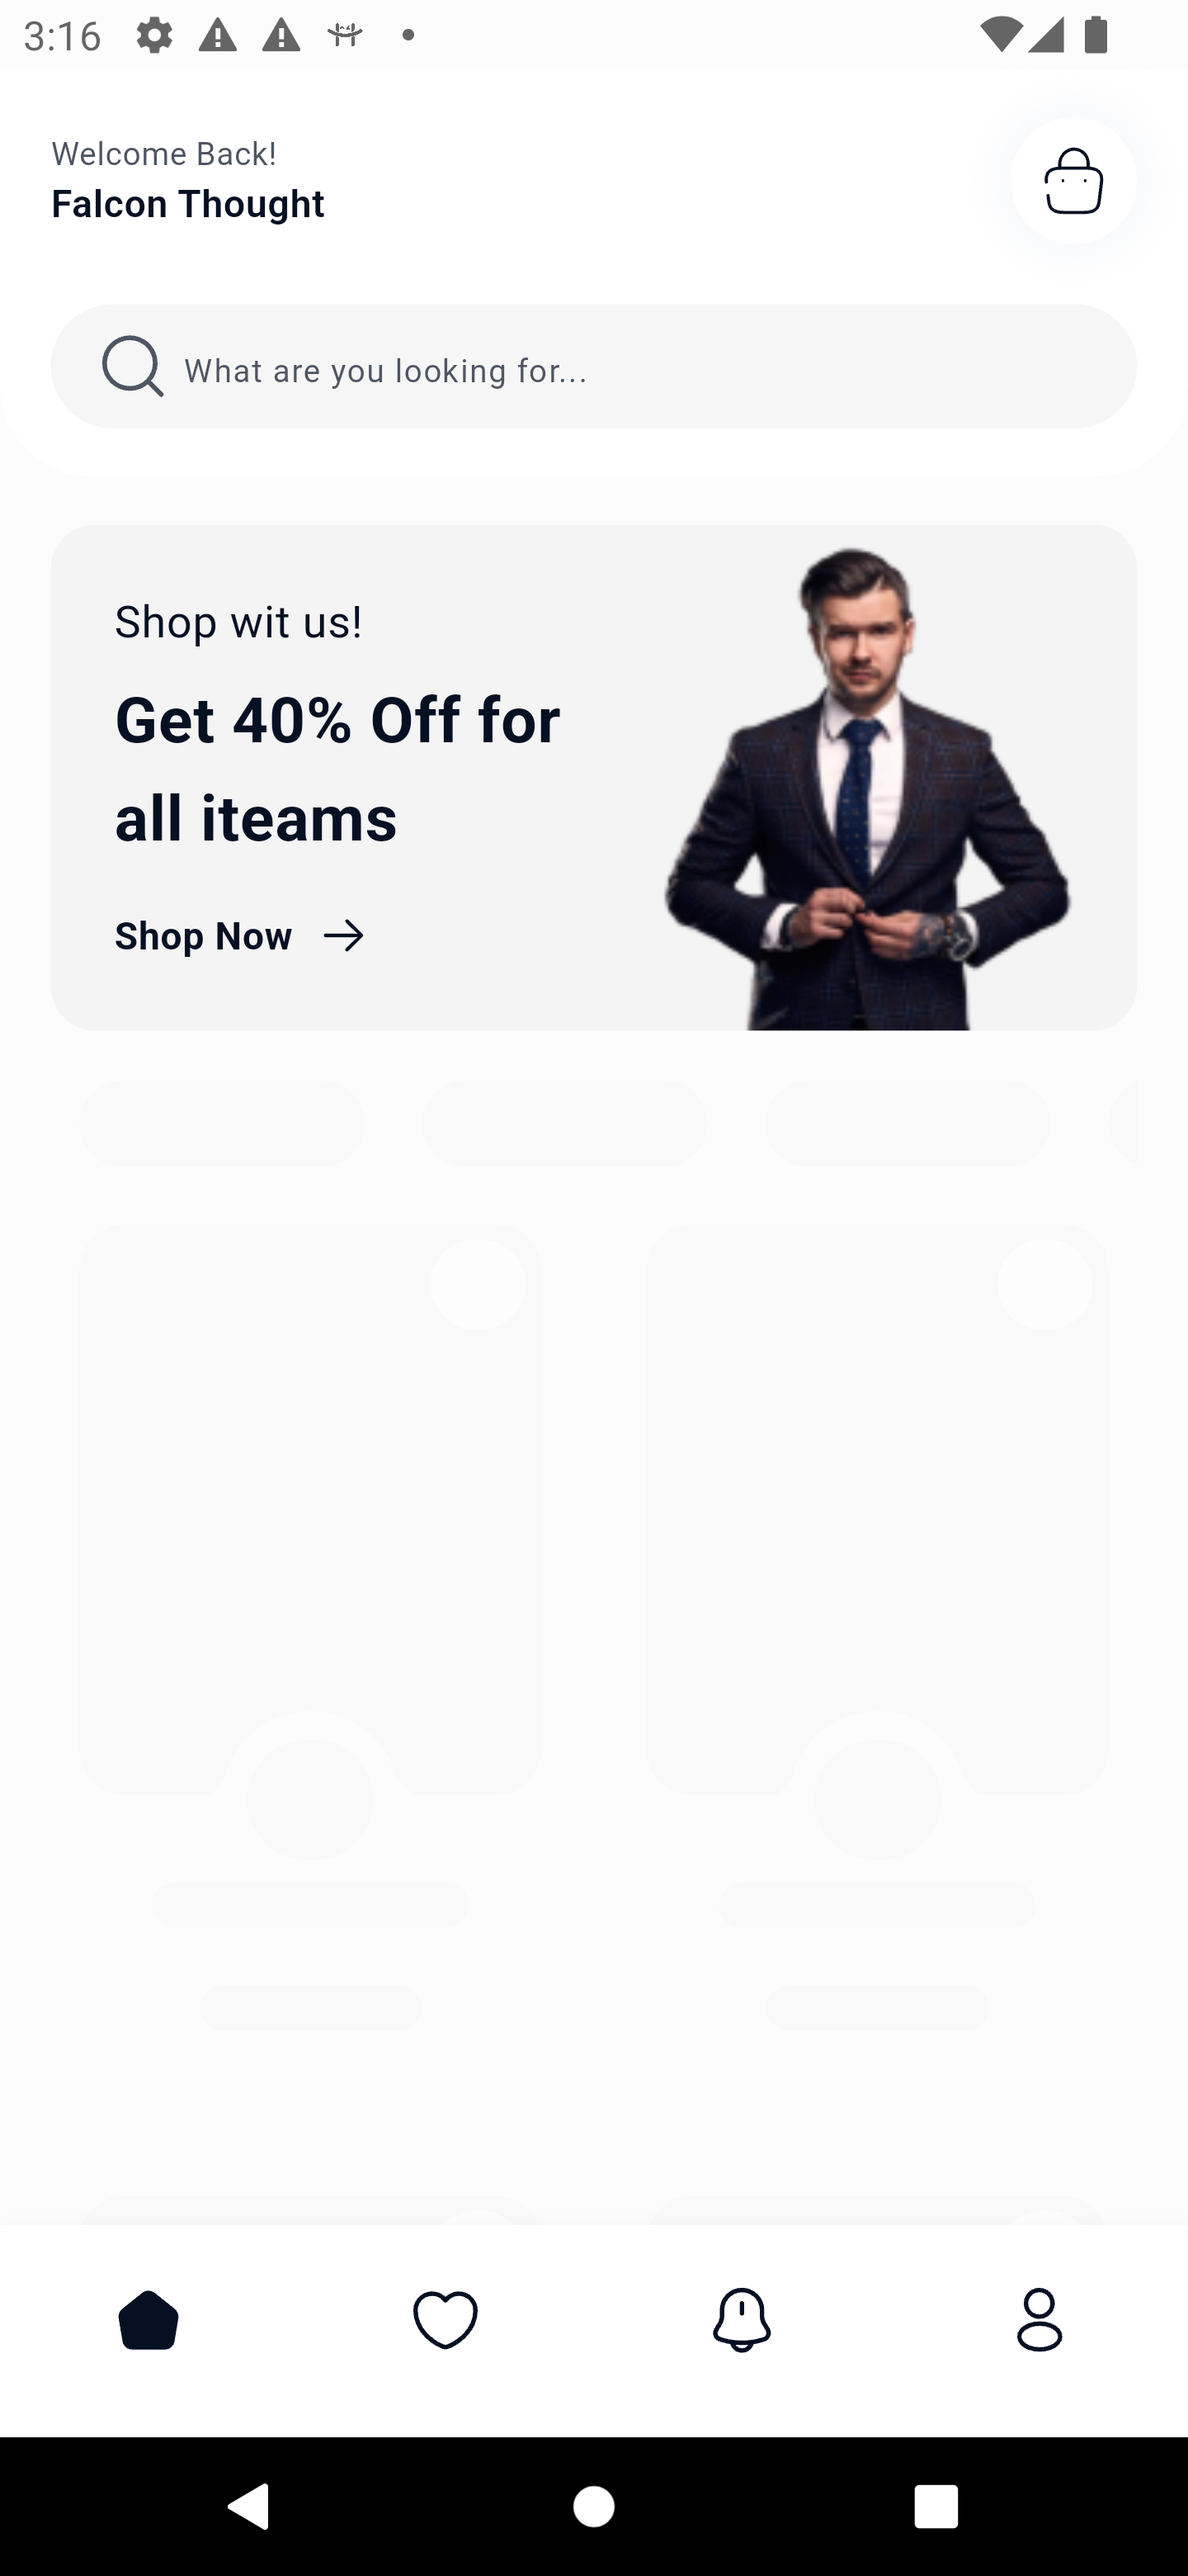
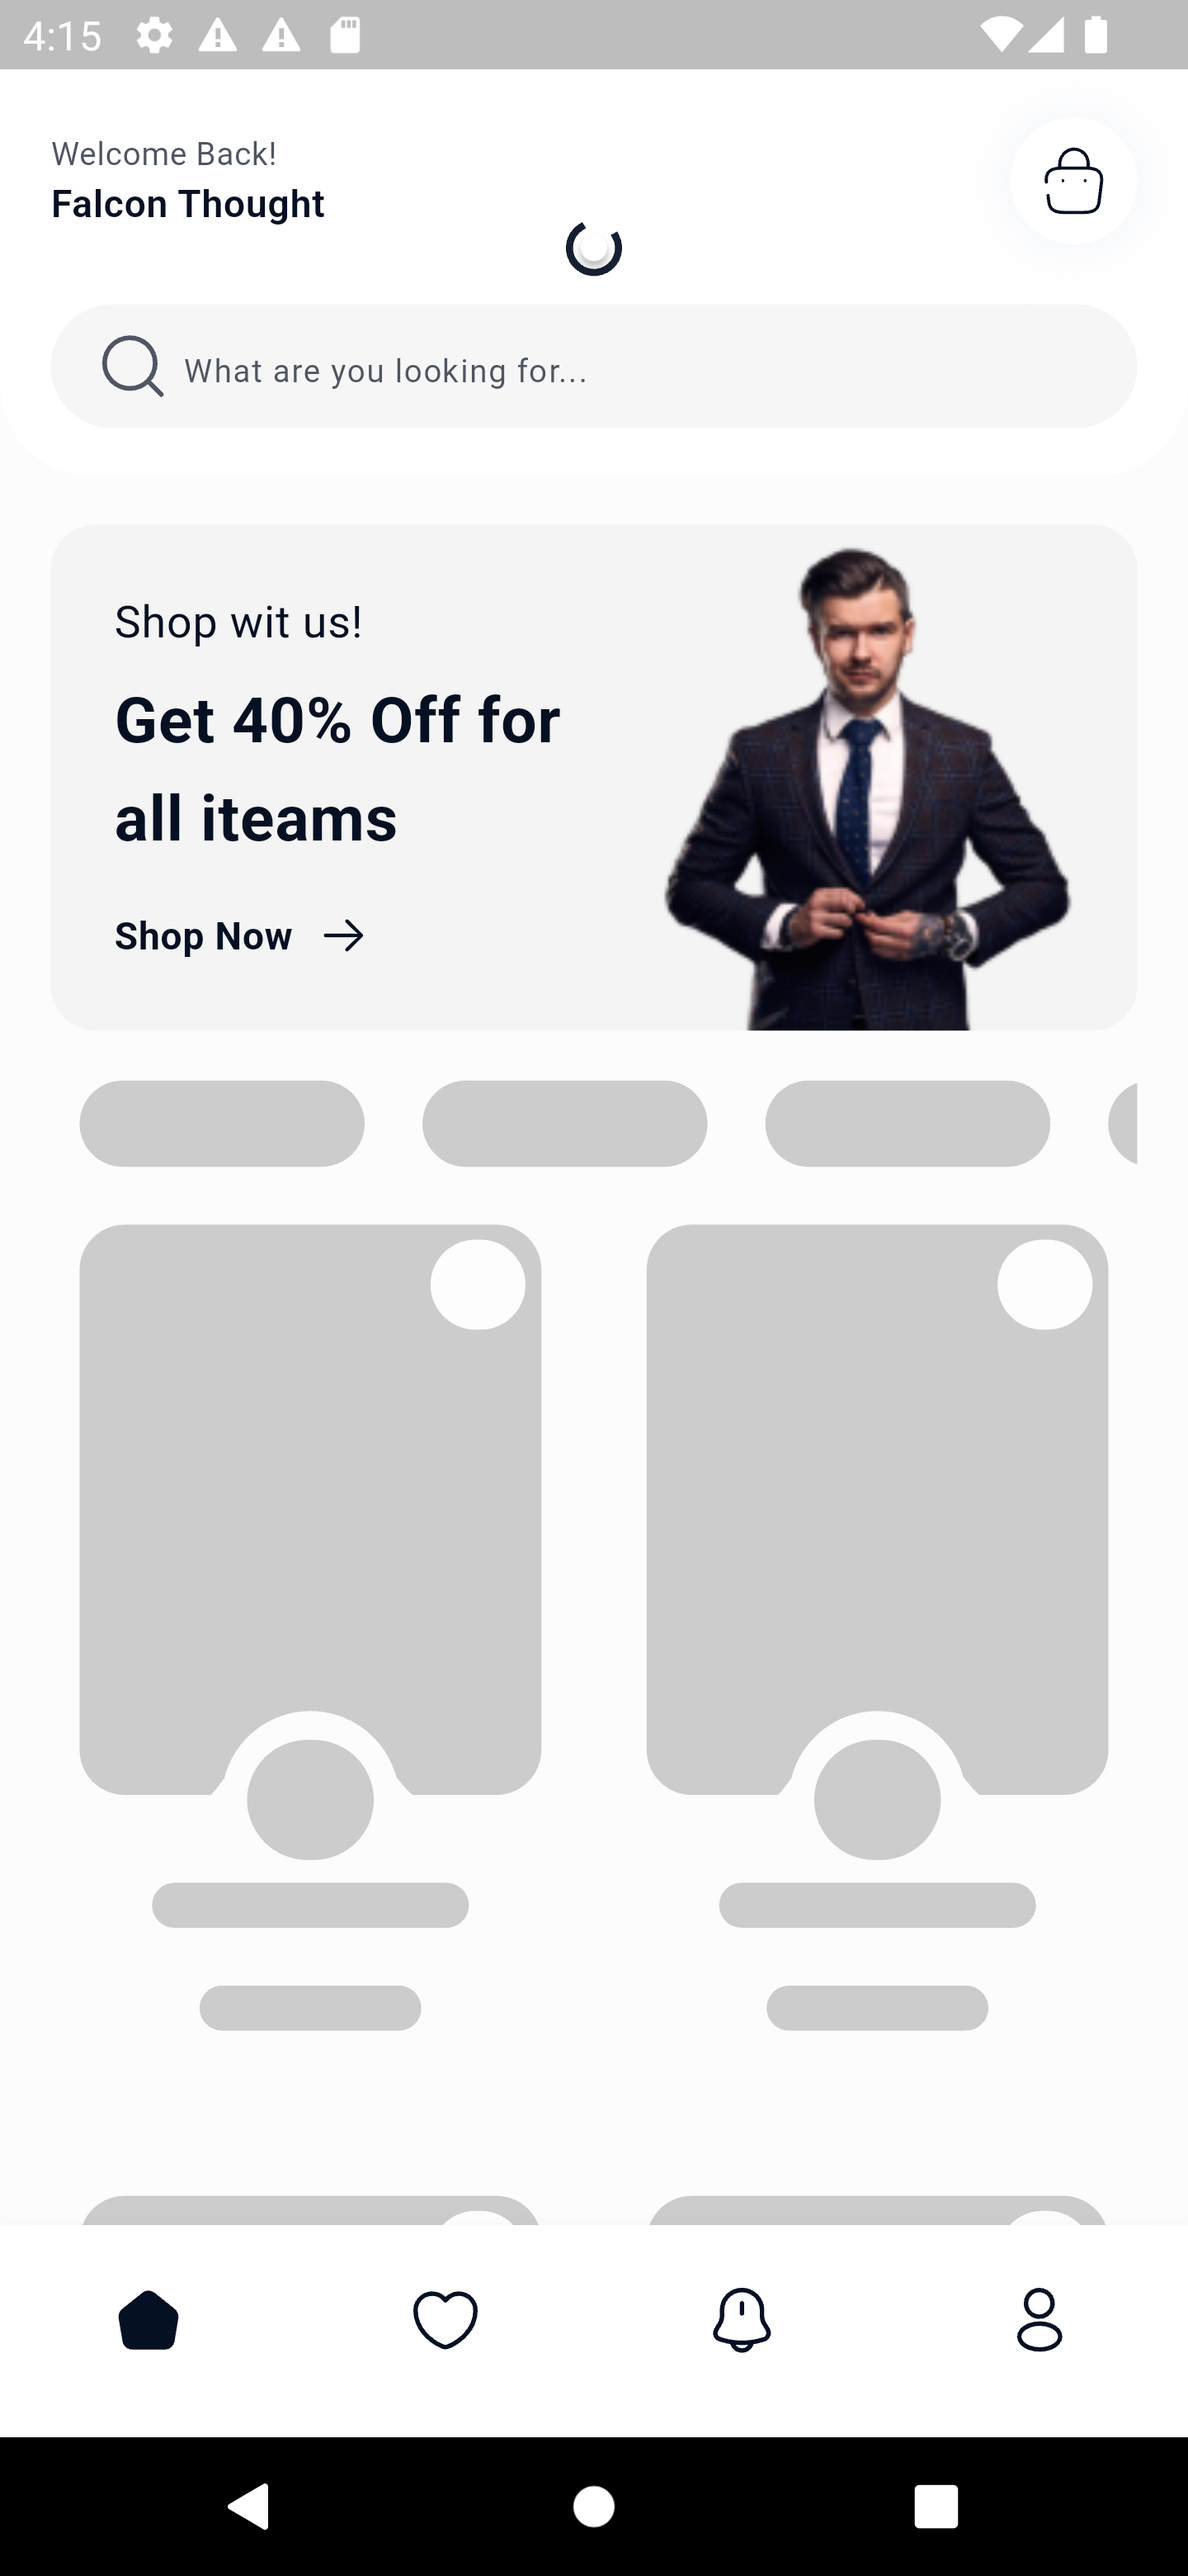
update shimmer loading

diff --git a/lib/features/home/presentation/widgets/custom_loading_products_grid.dart b/lib/features/home/presentation/widgets/custom_loading_products_grid.dart
@@ -46,7 +46,7 @@ class LoadingProductCard extends StatelessWidget {
                 ),
                 child: ShimmerPro.sized(
                   light: ShimmerProLight.lighter,
-                  scaffoldBackgroundColor: Colors.grey[300]!,
+                  scaffoldBackgroundColor: Colors.grey[400]!,
                   height: 190.h,
                   width: double.infinity,
                   borderRadius: 15.r,
@@ -66,7 +66,7 @@ class LoadingProductCard extends StatelessWidget {
                 ),
                 child: ShimmerPro.sized(
                   light: ShimmerProLight.lighter,
-                  scaffoldBackgroundColor: Colors.grey[300]!,
+                  scaffoldBackgroundColor: Colors.grey[400]!,
                   height: 40.h,
                   width: 40.w,
                   borderRadius: 20.r,
@@ -92,7 +92,7 @@ class LoadingProductCard extends StatelessWidget {
         SizedBox(height: 10.h),
         ShimmerPro.sized(
           light: ShimmerProLight.lighter,
-          scaffoldBackgroundColor: Colors.grey[300]!,
+          scaffoldBackgroundColor: Colors.grey[400]!,
           height: 15.h,
           width: 100.w,
           borderRadius: 10.r,
@@ -101,7 +101,7 @@ class LoadingProductCard extends StatelessWidget {
         ),
         ShimmerPro.sized(
           light: ShimmerProLight.lighter,
-          scaffoldBackgroundColor: Colors.grey[300]!,
+          scaffoldBackgroundColor: Colors.grey[400]!,
           height: 15.h,
           width: 70.w,
           borderRadius: 10.r,

diff --git a/lib/features/home/presentation/widgets/custom_list_of_loading_categories.dart b/lib/features/home/presentation/widgets/custom_list_of_loading_categories.dart
@@ -16,7 +16,7 @@ class CustomListOfLoadingCategories extends StatelessWidget {
         itemCount: 6,
         itemBuilder: (context, index) => ShimmerPro.sized(
           light: ShimmerProLight.lighter,
-          scaffoldBackgroundColor: Colors.grey[300]!,
+          scaffoldBackgroundColor: Colors.grey[400]!,
           height: 40.h,
           width: 90.w,
           borderRadius: 26.r,
